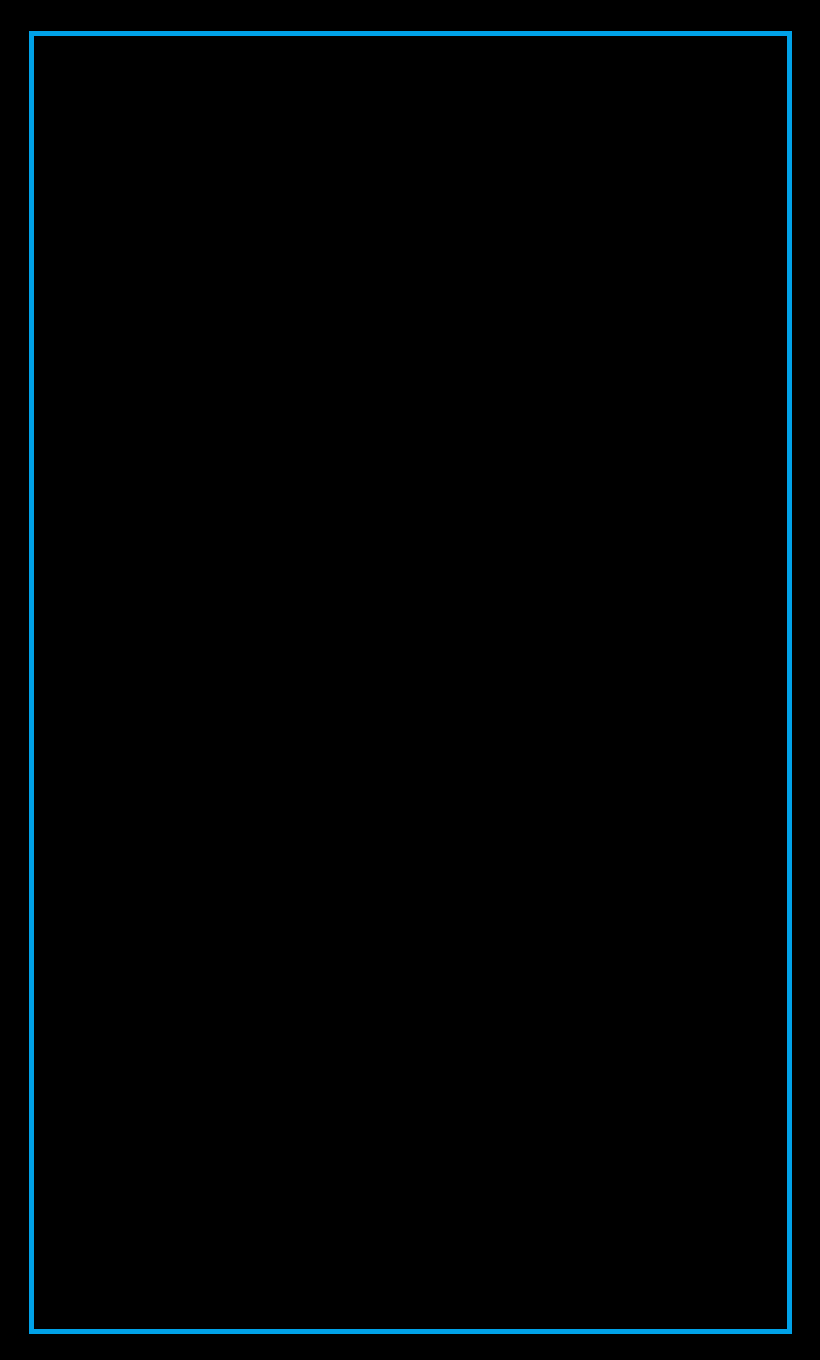
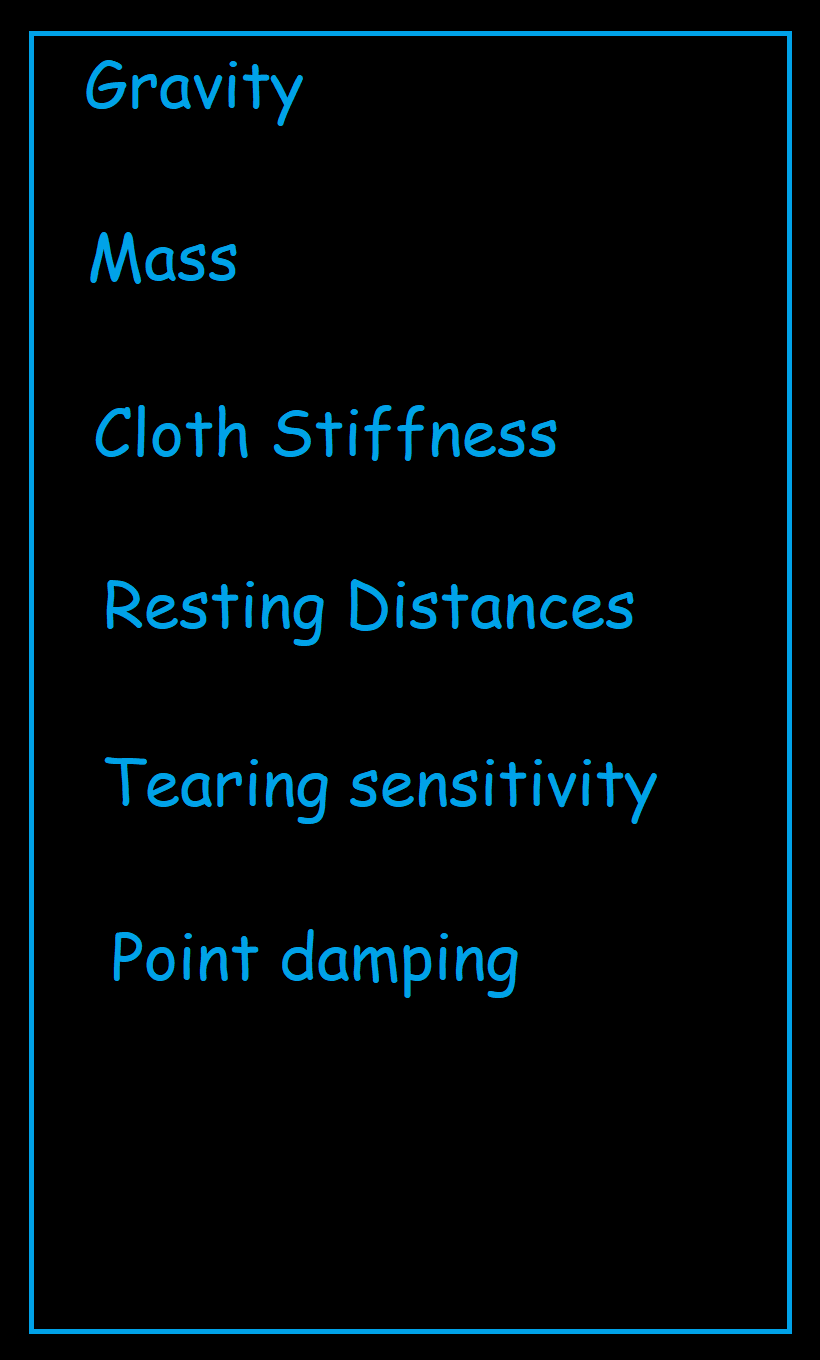
Even more sliders

diff --git a/OpenGL-Framework/SceneManager.cpp b/OpenGL-Framework/SceneManager.cpp
@@ -57,19 +57,55 @@ void CSceneManager::Init()
 	//m_cloth = new CCloth();
 	m_cloth->init();
 
-	m_slider = new CSlider(0.6f, -1.47f, -1.27f, -1.07f);
-	/*Camera Setup*/
 	menuInfo.objScale = glm::vec3(0.25f, 0.8f, 1.0f);
 	menuInfo.objPosition = glm::vec3(-1.5f, 0.0f, 0.0f);
 	menuInfo.imgFilepath = "Resources/box.png";
+
 	m_slidersBG = new CObject(DEFAULT, MESH_2D_SPRITE, menuInfo);
 
-	m_GravText = new TextLabel(std::to_string(m_fGravity), "Resources/Fonts/arial.ttf", glm::vec2(132.0f, 72.0f));
-	m_GravText->SetScale(0.6f);
-	float xConverted = (m_slider->GetSliderPosX()) * (float)glutGet(GLUT_WINDOW_WIDTH);
+	float xConverted = (-1.2) * (float)glutGet(GLUT_WINDOW_WIDTH);
 	float yConverted = (0.65) * (float)glutGet(GLUT_WINDOW_HEIGHT);
-	//m_GravText->SetPos({ xConverted , yConverted });
-	m_GravText->SetColor({ 1.0f, 0.0f, 0.0f });
+
+	m_GravText = new TextLabel(std::to_string(m_fGravity), "Resources/Fonts/arial.ttf", glm::vec2(xConverted, yConverted));
+	m_GravText->SetScale(0.6f);
+	m_GravText->SetColor({ 0.0f, 0.652f, 0.928f });
+	m_gravSlider = new CSlider(0.6f, -1.485f, -1.3f, -1.18f);
+
+	xConverted = (-1.2) * (float)glutGet(GLUT_WINDOW_WIDTH);
+	yConverted = (0.65) * (float)glutGet(GLUT_WINDOW_HEIGHT);
+	m_MassText = new TextLabel(std::to_string(m_fGravity), "Resources/Fonts/arial.ttf", glm::vec2(xConverted, yConverted));
+	m_MassText->SetScale(0.6f);
+	m_MassText->SetColor({ 0.0f, 0.652f, 0.928f });
+	m_massSlider = new CSlider(0.4f, -1.485f, -1.3f, -1.18f);
+
+	xConverted = (-1.2) * (float)glutGet(GLUT_WINDOW_WIDTH);
+	yConverted = (0.65) * (float)glutGet(GLUT_WINDOW_HEIGHT);
+	m_stiffText = new TextLabel(std::to_string(m_fGravity), "Resources/Fonts/arial.ttf", glm::vec2(xConverted, yConverted));
+	m_stiffText->SetScale(0.6f);
+	m_stiffText->SetColor({ 0.0f, 0.652f, 0.928f });
+	m_stiffSlider = new CSlider(0.2f, -1.485f, -1.3f, -1.18f);
+
+	xConverted = (-1.2) * (float)glutGet(GLUT_WINDOW_WIDTH);
+	yConverted = (0.65) * (float)glutGet(GLUT_WINDOW_HEIGHT);
+	m_restDisText = new TextLabel(std::to_string(m_fGravity), "Resources/Fonts/arial.ttf", glm::vec2(xConverted, yConverted));
+	m_restDisText->SetScale(0.6f);
+	m_restDisText->SetColor({ 0.0f, 0.652f, 0.928f });
+	m_restDisSlider = new CSlider(0.0f, -1.485f, -1.35f, -1.18f);
+
+	xConverted = (-1.2) * (float)glutGet(GLUT_WINDOW_WIDTH);
+	yConverted = (0.65) * (float)glutGet(GLUT_WINDOW_HEIGHT);
+	m_tearText = new TextLabel(std::to_string(m_fGravity), "Resources/Fonts/arial.ttf", glm::vec2(xConverted, yConverted));
+	m_tearText->SetScale(0.6f);
+	m_tearText->SetColor({ 0.0f, 0.652f, 0.928f });
+	m_tearSlider = new CSlider(-0.2f, -1.485f, -1.35f, -1.18f);
+
+	xConverted = (-1.2) * (float)glutGet(GLUT_WINDOW_WIDTH);
+	yConverted = (0.65) * (float)glutGet(GLUT_WINDOW_HEIGHT);
+	m_dampText = new TextLabel(std::to_string(m_fGravity), "Resources/Fonts/arial.ttf", glm::vec2(xConverted, yConverted));
+	m_dampText->SetScale(0.6f);
+	m_dampText->SetColor({ 0.0f, 0.652f, 0.928f });
+	m_dampSlider = new CSlider(-0.4f, -1.485f, -1.3f, -1.18f);
+
 }
 
 void CSceneManager::Render()
@@ -77,15 +113,25 @@ void CSceneManager::Render()
 	glClear(GL_COLOR_BUFFER_BIT | GL_DEPTH_BUFFER_BIT | GL_STENCIL_BUFFER_BIT);
 	glClearColor(0.0f, 0.0f, 0.0f, 1.0);
 
-	m_slider->render();
-	m_menutext->Render();
-	
+	m_dampSlider->render();
+	m_tearSlider->render();
+	m_restDisSlider->render();
+	m_stiffSlider->render();
+	m_massSlider->render();
+	m_gravSlider->render();
 
-	m_menuObj->Render(CCameraManager::GetInstance().GetOrthoCam());
 	m_slidersBG->Render(CCameraManager::GetInstance().GetOrthoCam());
-	m_cloth->render();
+	m_menuObj->Render(CCameraManager::GetInstance().GetOrthoCam());
 
-	m_GravText->Render();
+	m_cloth->render();
+	m_GravText->Render();	
+	m_MassText->Render();
+	m_stiffText->Render();
+	m_restDisText->Render();
+	m_tearText->Render();	
+	m_dampText->Render();
+		
+	m_menutext->Render();
 
 	glutSwapBuffers();
 }
@@ -102,8 +148,6 @@ void CSceneManager::Process()
 	}
 	m_cloth->process(deltaTime);
 
-
-	
 
 	//MenuHandling
 	/***********************************************************************/
@@ -142,24 +186,127 @@ void CSceneManager::Process()
 		slidersPerc = 0.0f;
 	}
 
+	
+	m_fGravity = -m_gravSlider->process();
+	std::string tempText = std::to_string(m_fGravity);
+	tempText.erase(6, tempText.find_last_of("0"));
+	m_GravText->SetText(tempText);
+
+	m_fStiffness = m_stiffSlider->process();
+	tempText = std::to_string(m_fStiffness);
+	tempText.erase(6, tempText.find_last_of("0"));
+	m_stiffText->SetText(tempText);
+
+	m_Mass = m_massSlider->process();
+	tempText = std::to_string(m_Mass);
+	tempText.erase(6, tempText.find_last_of("0"));
+	m_MassText->SetText(tempText);
+
+	m_fRestDis = m_restDisSlider->process() * 25;
+	tempText = std::to_string(m_fRestDis);
+	//tempText.erase(6, tempText.size() - 1);
+	m_restDisText->SetText(tempText);
+
+	m_fTearSensitivity = m_tearSlider->process() * 100.0f;
+	tempText = std::to_string(m_fTearSensitivity);
+	tempText.erase(4, tempText.size() - 1);
+	m_tearText->SetText(tempText);
+
+	m_fDamping = m_dampSlider->process();
+	tempText = std::to_string(m_fDamping);
+	tempText.erase(6, tempText.find_last_of("0"));
+	m_dampText->SetText(tempText);
+
+
 	if (slidersState)
 	{
 		m_slidersBG->Translate(lerpfunc(glm::vec3(-1.5f, 0.0f, 0.0f), glm::vec3(-0.725f, 0.0f, 0.0f), slidersPerc));
+
+		glm::vec3 textPos = lerpfunc(glm::vec3(-1.2f, 0.97f, 0.0f), glm::vec3(-0.64f, 0.97f, 0.0f), slidersPerc);
+		float xConverted = (textPos.x + 1) * (float)glutGet(GLUT_WINDOW_WIDTH);
+		float yConverted = ((textPos.y / 2) + 1) * (float)glutGet(GLUT_WINDOW_HEIGHT);
+		m_GravText->SetPos({ xConverted , yConverted });
+
+		textPos = lerpfunc(glm::vec3(-1.2f, 0.59f, 0.0f), glm::vec3(-0.64f, 0.59f, 0.0f), slidersPerc);
+		xConverted = (textPos.x + 1) * (float)glutGet(GLUT_WINDOW_WIDTH);
+		yConverted = ((textPos.y / 2) + 1) * (float)glutGet(GLUT_WINDOW_HEIGHT);
+		m_MassText->SetPos({ xConverted , yConverted });
+
+		textPos = lerpfunc(glm::vec3(-1.2f, 0.22f, 0.0f), glm::vec3(-0.64f, 0.22f, 0.0f), slidersPerc);
+		xConverted = (textPos.x + 1) * (float)glutGet(GLUT_WINDOW_WIDTH);
+		yConverted = ((textPos.y / 2) + 1) * (float)glutGet(GLUT_WINDOW_HEIGHT);
+		m_stiffText->SetPos({ xConverted , yConverted });
+
+		textPos = lerpfunc(glm::vec3(-1.2f, -0.15f, 0.0f), glm::vec3(-0.64f, -0.15f, 0.0f), slidersPerc);
+		xConverted = (textPos.x + 1) * (float)glutGet(GLUT_WINDOW_WIDTH);
+		yConverted = ((textPos.y / 2) + 1) * (float)glutGet(GLUT_WINDOW_HEIGHT);
+		m_restDisText->SetPos({ xConverted , yConverted });
+
+		textPos = lerpfunc(glm::vec3(-1.2f, -0.52f, 0.0f), glm::vec3(-0.64f, -0.52f, 0.0f), slidersPerc);
+		xConverted = (textPos.x + 1) * (float)glutGet(GLUT_WINDOW_WIDTH);
+		yConverted = ((textPos.y / 2) + 1) * (float)glutGet(GLUT_WINDOW_HEIGHT);
+		m_tearText->SetPos({ xConverted , yConverted });
+
+		textPos = lerpfunc(glm::vec3(-1.2f, -0.89f, 0.0f), glm::vec3(-0.64f, -0.89f, 0.0f), slidersPerc);
+		xConverted = (textPos.x + 1) * (float)glutGet(GLUT_WINDOW_WIDTH);
+		yConverted = ((textPos.y / 2) + 1) * (float)glutGet(GLUT_WINDOW_HEIGHT);
+		m_dampText->SetPos({ xConverted , yConverted });
 	}
 	else
 	{
 		m_slidersBG->Translate(lerpfunc(glm::vec3(-0.725f, 0.0f, 0.0f), glm::vec3(-1.5f, 0.0f, 0.0f), slidersPerc));
+
+		glm::vec3 textPos = lerpfunc(glm::vec3(-0.64f, 0.97f, 0.0f), glm::vec3(-1.2f, 0.97f, 0.0f), slidersPerc);
+		float xConverted = (textPos.x) * (float)glutGet(GLUT_WINDOW_WIDTH);
+		float yConverted = (textPos.y) * (float)glutGet(GLUT_WINDOW_HEIGHT);
+		m_GravText->SetPos({ xConverted , yConverted });
+
+		textPos = lerpfunc(glm::vec3(-0.64f, 0.57f, 0.0f), glm::vec3(-1.2f, 0.57f, 0.0f), slidersPerc);
+		xConverted = (textPos.x) * (float)glutGet(GLUT_WINDOW_WIDTH);
+		yConverted = (textPos.y) * (float)glutGet(GLUT_WINDOW_HEIGHT);
+		m_MassText->SetPos({ xConverted , yConverted });
+
+		textPos = lerpfunc(glm::vec3(-0.64f, 0.22f, 0.0f), glm::vec3(-1.2f, 0.22f, 0.0f), slidersPerc);
+		xConverted = (textPos.x) * (float)glutGet(GLUT_WINDOW_WIDTH);
+		yConverted = (textPos.y) * (float)glutGet(GLUT_WINDOW_HEIGHT);
+		m_stiffText->SetPos({ xConverted , yConverted });
+
+		textPos = lerpfunc(glm::vec3(-0.64f, -0.15f, 0.0f), glm::vec3(-1.2f, -0.15f, 0.0f), slidersPerc);
+		xConverted = (textPos.x) * (float)glutGet(GLUT_WINDOW_WIDTH);
+		yConverted = (textPos.y) * (float)glutGet(GLUT_WINDOW_HEIGHT);
+		m_restDisText->SetPos({ xConverted , yConverted });
+
+		textPos = lerpfunc(glm::vec3(-0.64f, -0.52f, 0.0f), glm::vec3(-1.2f, -0.52f, 0.0f), slidersPerc);
+		xConverted = (textPos.x) * (float)glutGet(GLUT_WINDOW_WIDTH);
+		yConverted = (textPos.y) * (float)glutGet(GLUT_WINDOW_HEIGHT);
+		m_tearText->SetPos({ xConverted , yConverted });
+
+		textPos = lerpfunc(glm::vec3(-0.64f, -0.89f, 0.0f), glm::vec3(-1.2f, -0.89f, 0.0f), slidersPerc);
+		xConverted = (textPos.x) * (float)glutGet(GLUT_WINDOW_WIDTH);
+		yConverted = (textPos.y) * (float)glutGet(GLUT_WINDOW_HEIGHT);
+		m_dampText->SetPos({ xConverted , yConverted });
 	}
+
 	if (slidersPerc < 1.0f)
 	{
 		if (slidersState)
 		{
-			m_slider->Translate(0.11, 0.11, 0.11);
+			m_gravSlider->Translate(0.11, 0.11, 0.11);
+			m_massSlider->Translate(0.11, 0.11, 0.11);
+			m_stiffSlider->Translate(0.11, 0.11, 0.11);
+			m_restDisSlider->Translate(0.11, 0.11, 0.11);
+			m_tearSlider->Translate(0.11, 0.11, 0.11);
+			m_dampSlider->Translate(0.11, 0.11, 0.11);
 		}
 		else
 		{
 		
-			m_slider->Translate(-0.11, -0.11, -0.11);
+			m_gravSlider->Translate(-0.11, -0.11, -0.11);
+			m_massSlider->Translate(-0.11, -0.11, -0.11);
+			m_stiffSlider->Translate(-0.11, -0.11, -0.11);
+			m_restDisSlider->Translate(-0.11, -0.11, -0.11);
+			m_tearSlider->Translate(-0.11, -0.11, -0.11);
+			m_dampSlider->Translate(-0.11, -0.11, -0.11);
 		}
 		
 		slidersPerc += 0.2f;

diff --git a/OpenGL-Framework/SceneManager.h b/OpenGL-Framework/SceneManager.h
@@ -56,9 +56,11 @@ private:
 
 	float m_Mass;
 	float m_fGravity;
+	float m_fDamping;
 	int m_fRestDis;
 	int m_ConstAcc;
-	
+	float m_fStiffness;
+	float m_fTearSensitivity;
 	
 	//Variables
 	GLuint m_program;
@@ -68,13 +70,25 @@ private:
 
 	CCloth* m_cloth;
 
-	CSlider* m_slider;
+	
 	CObject* m_slidersBG;
 
 	CObject* m_menuObj;
 	TextLabel* m_menutext;
 
+	CSlider* m_gravSlider;
 	TextLabel* m_GravText;
+	CSlider* m_massSlider;
+	TextLabel* m_MassText;
+	CSlider* m_stiffSlider;
+	TextLabel* m_stiffText;
+	CSlider* m_restDisSlider;
+	TextLabel* m_restDisText;
+	CSlider* m_tearSlider;
+	TextLabel* m_tearText;
+	CSlider* m_dampSlider;
+	TextLabel* m_dampText;
+
 };
 
 #endif // !__SCENEMANAGER_H__

diff --git a/OpenGL-Framework/main.cpp b/OpenGL-Framework/main.cpp
@@ -20,6 +20,9 @@ void SpecialKeyDown(int key, int x, int y);
 void Mouse(int button, int glutState, int x, int y);
 void PassiveMouse(int x, int y);
 
+void resize(int width, int height) {
+	glutReshapeWindow(1024, 576);
+}
 int main(int argc, char **argv)
 {
 	glutInit(&argc, argv);
@@ -43,6 +46,7 @@ int main(int argc, char **argv)
 
 	glutSpecialFunc(SpecialKeyDown);
 	glutSpecialUpFunc(SpecialKeyUp);
+	glutReshapeFunc(resize);
 
 	glutMouseFunc(Mouse); 
 	glutPassiveMotionFunc(PassiveMouse);
@@ -51,6 +55,8 @@ int main(int argc, char **argv)
 
 	return(0);
 }
+
+
 void init()
 {
 	CSceneManager::GetInstance().Init(); //Init the scene manager
